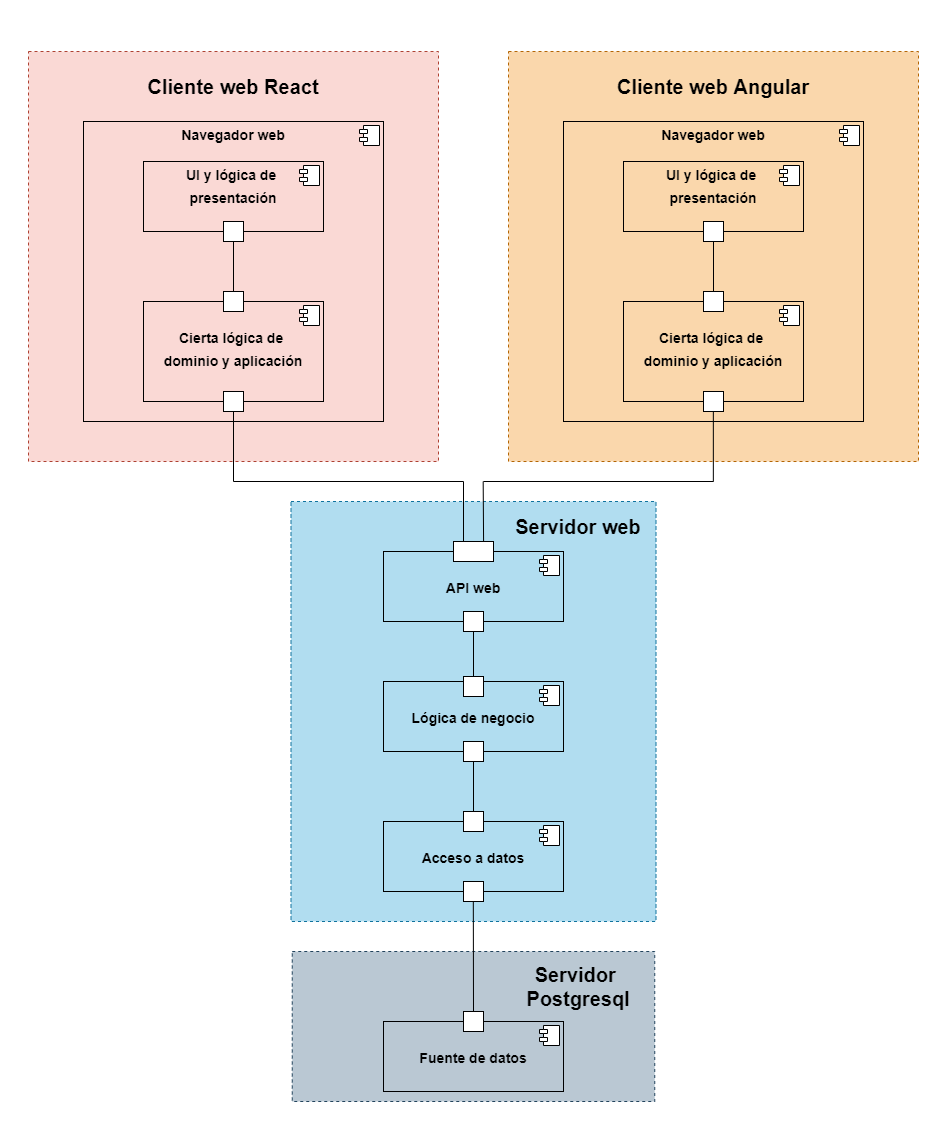
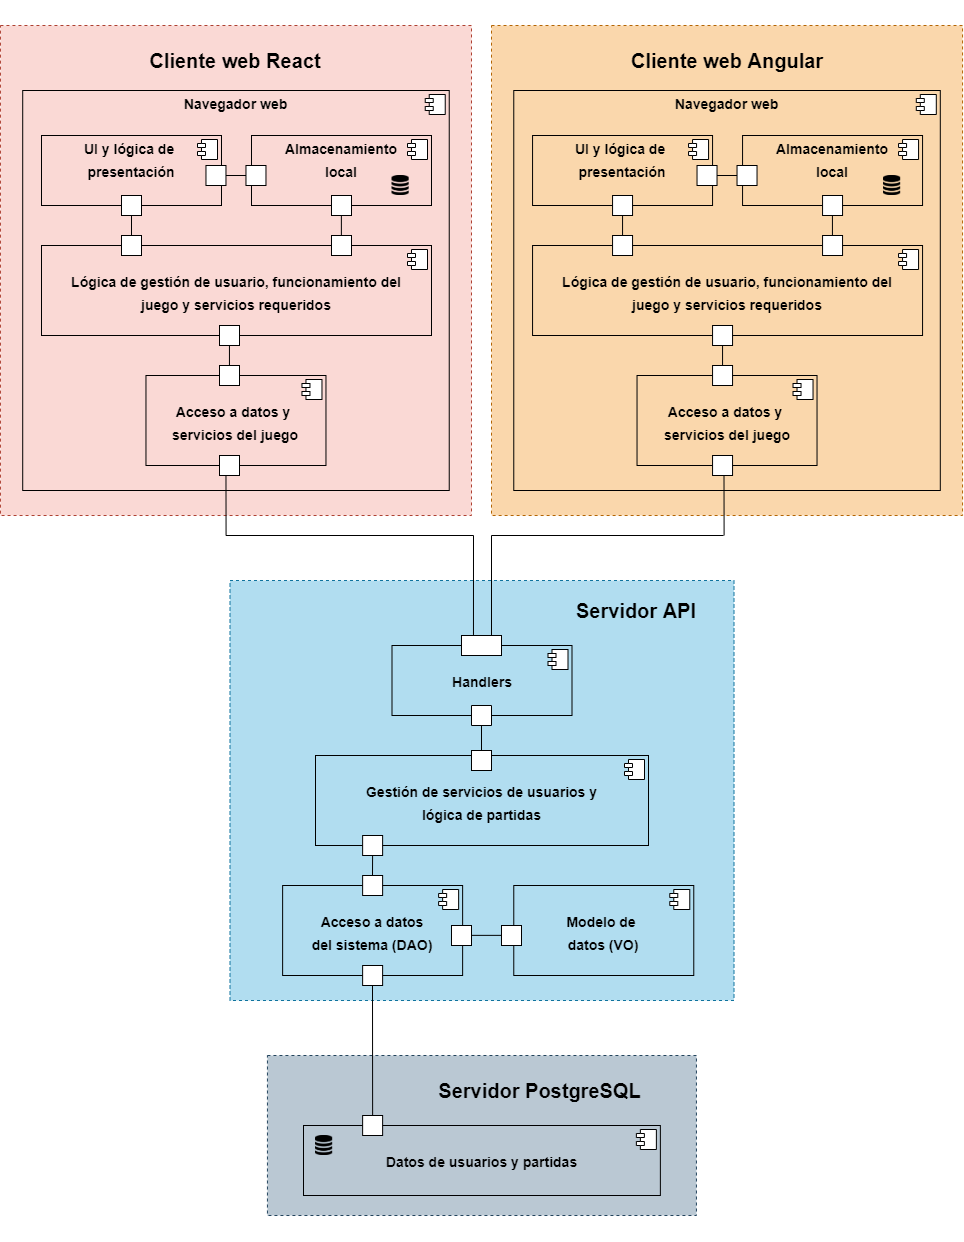
Parte añadida y arreglos

Changed region(s): [[0.0, 0.0, 1.0, 0.9903], [0.1246, 0.3095, 0.1557, 0.3404]]

diff --git a/plan_gestion_analisis_diseño_memoria_v1/main.tex b/plan_gestion_analisis_diseño_memoria_v1/main.tex
@@ -153,23 +153,23 @@ A lo largo del documento se va a presentar un proyecto que se ha denominado\text
 %Algunos de los objetivos fundamentales del sistema son: 
 
 %que constan de un \textit{email} y contraseña,%
-Así mismo, el juego permitirá a los usuarios registrarse e iniciar sesión con sus credenciales, y el uso de una cuenta de usuario será necesario para jugar partidas. Gracias a que se almacenan cuentas de usuario, el sistema contará con una clasificación global de los mejores jugadores y de sus respectivas puntuaciones de las partidas jugadas. Por otro lado, el juego proporcionará funcionalidades adicionales que permitirán disfrutar de una experiencia social, fomentando la competición y una mayor participación en futuras partidas. %Cada usuario podrá gestionar una lista de amigos.\\
+Así mismo, el juego permitirá a los usuarios registrarse e iniciar sesión con sus credenciales, y el uso de una cuenta de usuario será necesario para jugar partidas. Gracias a que se almacenan cuentas de usuario, el sistema contará con una clasificación global de los mejores jugadores y de sus respectivas puntuaciones de las partidas jugadas. Por otro lado, el juego proporcionará funcionalidades adicionales que permitirán disfrutar de una experiencia social, fomentando la competición y una mayor participación en futuras partidas.\\ %Cada usuario podrá gestionar una lista de amigos.\\
 
-Adicionalmente, los usuarios podrán personalizar elementos del juego en función de sus preferencias, como las fichas, su foto de perfil, o los dados usados durante las partidas, mediante puntos canjeables en la tienda del juego, que el sistema recompensará por haber jugado o ganado partidas.
+Adicionalmente, los usuarios podrán personalizar elementos del juego en función de sus preferencias, como las fichas, su foto de perfil, o los dados usados durante las partidas, mediante puntos canjeables en la tienda del juego, que el sistema recompensará por haber jugado o ganado partidas. \\
 
 Por otro lado, el juego permitirá crear partidas públicas y privadas, con contraseña, de 2 a 6 jugadores. Esto permitirá crear partidas entre grupos de amigos, o unirse a partidas públicas y conocer nuevos usuarios.\\
 
 %Las partidas se desarrollarán de forma asíncrona, permitiendo a los usuarios responder en cualquier momento. Si el usuario se encuentra conectado, podrá ver una notificación en la pantalla. En el caso contrario, se enviará un correo al mismo notificando que puede realizar la jugada. Habrá un mecanismo de expulsión de jugadores que no respondan o realicen jugadas en un tiempo determinado. \\
 
-A lo largo de la realización del proyecto, se realizarán entregas parciales del trabajo llevado a cabo, en reuniones propuestas en unos plazos establecidos:
+A lo largo de la realización del proyecto se realizarán entregas parciales del trabajo llevado a cabo, en reuniones propuestas en unos plazos establecidos:
 
-En primer lugar, se realizará una reunión para la evaluación parcial del sistema, con el objetivo de refinar requisitos y mostrar el progreso del desarrollo. Esto se realizará en la semana del 4 al 8 de Abril.
+En primer lugar, se realizará una reunión para la evaluación parcial del sistema, con el objetivo de refinar requisitos y mostrar el progreso del desarrollo. Esto se realizará en la semana del 4 al 8 de Abril. \\
 
-En segundo lugar, se realizará reunión para la evaluación de todas las funcionalidades del juego, con el sistema implementado en una versión final, con el objetivo de realizar ajustes finales. Esto se realizará en la semana del 16 al 20 de Mayo.
+En segundo lugar, se realizará reunión para la evaluación de todas las funcionalidades del juego, con el sistema implementado en una versión final, con el objetivo de realizar ajustes finales. Esto se realizará en la semana del 16 al 20 de Mayo. \\
 
 El sistema final se entregará no más tarde del 1 de junio, con los cambios propuestos durante las reuniones intermedias. \\
 
-A continuación se detallará la organización del proyecto, los equipos creados y sus objetivos, las tecnologías utilizadas,  y el calendario del proyecto con la división de las tareas asignadas a cada uno.
+A continuación, se detallará la organización del proyecto, los equipos creados y sus objetivos, las tecnologías utilizadas,  y el calendario del proyecto con la división de las tareas asignadas a cada uno.
 Además, realizaremos un análisis y diseño del sistema, y una revisión del transcurso del proyecto, desde el inicio hasta el cierre del mismo. \newpage
 
 \section{Organización del proyecto}
@@ -186,7 +186,7 @@ Aunque cada uno tenga un bloque asignado, en todo momento se ayudará a integran
 
 El equipo decidió nombrar como director a Francisco Crespo, será el portavoz y el encargado de tomar las decisiones más controvertidas, así como de realizar las entregas necesarias del trabajo.\newline
 
-El responsable del control de configuraciones, construcción del software y aseguramiento de la calidad del producto será Samuel García.
+El responsable del control de configuraciones, construcción del software y aseguramiento de la calidad del producto será Samuel García.\\
 
 La responsable de la división del trabajo, coordinación y la comunicación entre los miembros del proyecto será Laura González.
 
@@ -363,7 +363,7 @@ La coordinación y seguimiento de objetivos del proyecto se va a seguir mediante
     \begin{figure}[!p]
     \centering
     
-    \includegraphics[width=1.7\textwidth]{diagramas/gantt.PNG}
+    \includegraphics[width=1.7\textwidth]{diagramas/gantt.png}
     \caption{Diagrama de Gantt.}
     \label{fig:gantt}
 \end{figure}
@@ -387,7 +387,7 @@ Las métricas de rendimiento del equipo irán marcadas por el estado por cada un
 El calendario interno para el \textit{frontend} va a ser el mismo para ambas implementaciones. La tabla \ref{table:frontend} muestra las tareas a realizar por este equipo. \newline
 
 \subsubsection{Calendario de seguimiento para el backend}
- La tabla \ref{table:backend} muestra las tareas de este equipo a realizar. \newline
+ La tabla \ref{table:backend} muestra las tareas a realizar por el equipo. \newline
 
 % Please add the following required packages to your document preamble:
 % \usepackage{multirow}
@@ -446,9 +446,8 @@ El calendario interno para el \textit{frontend} va a ser el mismo para ambas imp
 
 \newpage
 
-
-
 \begin{landscape}
+\pagestyle{empty}
 \begin{table}[hbt!]
 \small
 \centering
@@ -618,11 +617,18 @@ Los requisitos funcionales de nuestra aplicación se pueden encontrar detallados
 
 El diseño y planificación de los elementos y lógica de un sistema es fundamental para su desarrollo. En consecuencia, hemos desarrollado los correspondientes diagramas arquitecturales que reflejan los componentes de la aplicación, así como la interacción entre ellos. \newline
 
-En primer lugar, se ha modelado el \textbf{diagrama de paquetes}, observable en la Figura 3, cuyo contenido refleja la organización de los distintos módulos del sistema, así como las dependencias entre ellos. \\
+En primer lugar, se ha modelado el \textbf{diagrama de paquetes}, observable en la Figura \ref{ref:paquetes}, cuyo contenido refleja la organización de los distintos módulos del sistema, así como las dependencias entre ellos. \\ \\
 
-En siguiente lugar, se ha modelado el \textbf{diagrama de componentes}, apreciable en la Figura 4, en el cual se puede apreciar los dos componentes cliente, uno para cada tecnología, los cuales implementan la lógica de presentación y contienen parte de lógica interna de la aplicación, y se comunican con el servidor mediante la misma interfaz (\textit{API}). En siguiente lugar, se encuentra el servidor \textit{web} para la \textit{API}, el cual ofrece una interfaz común a los clientes e implementa la lógica de negocio y el acceso a los datos del sistema. Por último, se encuentra el gestor de base de datos, el cual aporta la persistencia necesaria al sistema. Además, como \textbf{protocolo de comunicación} entre los nodos de la red, se utilizará HTTP. \\
+\begin{figure}[!h]
+    \centering
+    \includegraphics[width=0.9\linewidth]{diagramas/DP.png}
+    \caption{Diagrama de paquetes.}
+    \label{ref:paquetes}
+\end{figure}
 
-En siguiente lugar, se ha modelado el \textbf{diagrama de componentes}, apreciable en la Figura \ref{ref:componentes}, en el cual se puede apreciar los dos componentes cliente, uno para cada tecnología. Estos implementan la lógica de presentación y contienen parte de lógica interna de la aplicación, y se comunican con el servidor mediante la misma interfaz (\textit{API}). En siguiente lugar, se encuentra el servidor \textit{web} para la \textit{API}, el cual ofrece una interfaz común a los clientes e implementa la lógica de negocio y el acceso a los datos del sistema. Por último, se encuentra el gestor de base de datos, el cual aporta la persistencia necesaria al sistema. Además, como \textbf{protocolo de comunicación} entre los nodos de la red, se utilizará \textit{HTTP}. \\
+\newpage
+
+En siguiente lugar, se ha modelado el \textbf{diagrama de componentes}, apreciable en la Figura \ref{ref:componentes}, en el cual se puede apreciar los dos componentes cliente, uno para cada tecnología. Estos implementan la lógica de presentación y contienen parte de lógica interna de la aplicación, y se comunican con el servidor mediante la misma interfaz (\textit{API}). En siguiente lugar, se encuentra el servidor \textit{web} para la \textit{API}, el cual ofrece una interfaz común a los clientes e implementa la lógica de negocio y el acceso a los datos del sistema. Por último, se encuentra el gestor de base de datos, el cual aporta la persistencia necesaria al sistema. Además, como \textbf{protocolo de comunicación} entre los nodos de la red, se utilizará \textit{HTTP}. \\ \\
 
 \begin{figure}[!h]
     \centering
@@ -631,9 +637,9 @@ En siguiente lugar, se ha modelado el \textbf{diagrama de componentes}, apreciab
     \label{ref:componentes}
 \end{figure}
 
+\newpage
 
-
-Por otro lado, en la Figura 5 se ilustra el \textbf{diagrama de despliegue}, donde se puede apreciar la distribución de los distintos nodos que componen el sistema. En consecuencia, se ha representado el servidor web de la \textit{API}, el cual contiene un entorno de ejecución para el contenedor de \textit{Docker}, que ejecuta el código del servidor, y otro entorno con el contenedor para el SGBD \textit{PostgreSQL}. Por otro lado, se encuentran los servidores de React y Angular, cada uno con su entorno de ejecución con un contenedor de \textit{Docker}, que proporcionan el cliente web correspondiente. Por último, se encuentra la máquina del usuario, la cual contiene el entorno de ejecución (navegador web), junto con los artefactos necesarios para ejecutar el cliente correspondiente. \\
+Por otro lado, en la Figura \ref{ref:despliegue} se ilustra el \textbf{diagrama de despliegue}, donde se puede apreciar la distribución de los distintos nodos que componen el sistema. En consecuencia, se ha representado el servidor web de la \textit{API}, contenido en un entorno de ejecución para correspondiente a un contenedor de \textit{Docker}, que ejecuta el código del servidor, y otro entorno con el contenedor para el SGBD \textit{PostgreSQL}. Por otro lado, se encuentran los servidores de React y Angular, cada uno con su entorno de ejecución con un contenedor de \textit{Docker}, que proporcionan el cliente web correspondiente. Por último, se encuentra la máquina del usuario, la cual contiene el entorno de ejecución (navegador web), junto con los artefactos necesarios para ejecutar el cliente correspondiente. \\
 
 \begin{figure}[!h]
     \centering
@@ -645,6 +651,8 @@ Por otro lado, en la Figura 5 se ilustra el \textbf{diagrama de despliegue}, don
 \FloatBarrier
 
 Dadas las características del tipo de aplicación \textit{web}, se va a desarrollar una \textbf{arquitectura cliente-servidor en 3 niveles} como modelo de diseño, en la que los clientes lanzarán peticiones al servidor, este las gestionará y mantendrá el estado del sistema y su persistencia, y devolverá la respuesta correspondiente, que será procesada por la lógica desarrollada en el cliente. \\
+
+\newpage
 
 En la Figura \ref{ref:relacional} aparece el modelo relacional utilizado para la base de datos de la aplicación. Este constará de 5 tablas:
 \begin{itemize}
@@ -662,7 +670,7 @@ En la Figura \ref{ref:relacional} aparece el modelo relacional utilizado para la
     \label{ref:relacional}
 \end{figure}
 
-Desde el punto de vista de las interfaces del sistema, se ha realizado un diseño completo de la API a consumir por ambos \textit{frontend}. El diagrama de la API, junto a la descripción de los diferentes aspectos implementados, está disponible en el repositorio de documentación\footnote{\href{https://github.com/UNIZAR-30226-2022-01/proyecto_software_documentacion/documentacion_API.md}{\color{blue}{Documentación de la API.}}}.
+Desde el punto de vista de las interfaces del sistema, se ha realizado un diseño completo de la API a consumir por ambos \textit{frontend}. El diagrama de la API, junto a la descripción de los diferentes aspectos implementados, está disponible en el repositorio de documentación\footnote{\href{https://github.com/UNIZAR-30226-2022-01/proyecto_software_documentacion/documentacion_API.md}{\color{blue}{Documentación de la API.}}}. \\
 
 Adicionalmente, todas las funciones públicas del \textit{backend} se han documentado y se encuentran disponibles en la página oficial de documentación de paquetes de Go \footnote{\href{https://pkg.go.dev/github.com/UNIZAR-30226-2022-01/proyecto_software_backend}{\color{blue}{Documentación pública del \textit{backend}.}}}. De esta forma, se permite a ambos equipos de \textit{frontend} acceder a la documentación detallada de cada \textit{endpoint} de la API, que cuenta con ejemplos de respuestas y datos devueltos\footnote{\href{https://pkg.go.dev/github.com/UNIZAR-30226-2022-01/proyecto_software_backend/handlers}{\color{blue}{Documentación de cada \textit{endpoint} del \textit{backend}.}}}.
 
@@ -704,14 +712,17 @@ A continuación se va a describir el inicio y desarrollo del proyecto, desde el 
 
 \subsection{Inicio del proyecto}
 %Apartado react
-En relación al equipo del frontend de \textbf{React}, hemos seguido de forma correcta el plan establecido. Hemos seguido los tutoriales correspondientes y, posteriormente, realizamos un proyecto de prueba de cara a probar y poner en práctica las competencias adquiridas. También hemos investigado y probado diversos paquetes o librerías adicionales de \textit{React}, y aprendido a realizar las conexiones con la API y gestionar cookies. \\
-Cabe resaltar que \textbf{se han cumplido los objetivos} deseados de acuerdo a la planificación inicial. \\
+En relación al equipo del frontend de \textbf{React}, hemos seguido de forma correcta el plan establecido. Hemos seguido los tutoriales correspondientes y, posteriormente, realizamos un proyecto de prueba de cara a probar y poner en práctica las competencias adquiridas. También hemos investigado y probado diversos paquetes o librerías adicionales de \textit{React}, y aprendido a realizar las conexiones con la API y gestionar cookies. Cabe resaltar que \textbf{se han cumplido los objetivos} deseados de acuerdo a la planificación inicial. 
 
 % Apartado backend
 Con lo que respecta al equipo de \texit{backend}, la formación inicial necesaria no fue tan pesada como en el caso del \texit{frontend}, ya que ambos componentes del equipo tenían experiencia con las tecnologías utilizadas. Aún así ambos consultaron tutoriales y documentación de \textbf{React} y \textbf{Angular} para poder ayudar en el desarrollo del \textit{frontend}, además de los tutoriales sobre diseño de \textit{API} y uso de \LaTeX.
 
 \subsection{Ejecución y control del proyecto}
 \subsubsection{Frontend Angular}
+
+El tiempo invertido para la realización de las tareas propuestas no se ha ajustado al plan inicial, y es por ello que no han podido alcanzar los objetivos propuestos en el calendario original. La implementación de algunos aspectos del \textit{frontend} han sido mas costosos de lo esperado, principalmente por la poca del experiencia del equipo al trabajar con el \textit{framework}. La gestión de cookies, y el diseño de una primera versión del mapa fueron las tareas más complejas, y dispararon las horas de trabajo invertidas, escapando del plan inicial.\\
+
+Ambos equipos encargados del \textit{frontend} han aprendido que es muy difícil repartir actividades trabajando en \textit{frameworks} distintos, ya que tratamos de dividir el diseño del mapa entre los 4 integrantes de \textit{frontend}, y a la hora de integrar las tareas realizadas por el equipo de \textit{React} en la implementación de \textit{Angular}, ha sido necesario adaptar el código al \textit{framework}, ya que difieren en multitud de aspectos. 
 
 \subsubsection{Frontend React}
 
@@ -756,9 +767,9 @@ El proceso de ejecución y control del proyecto para el equipo de \textit{backen
 
 %% Repartición de tareas
 
-En términos de repartición de trabajo, el comienzo del proceso de desarrollo ha consistido en programación en pareja de los aspectos fundamentales del sistema, como la definición del modelo de datos, o la de módulos base, funciones críticas y estructuras a utilizar en el servidor.
+En términos de repartición de trabajo, el comienzo del proceso de desarrollo ha consistido en programación en pareja de los aspectos fundamentales del sistema, como la definición del modelo de datos, o la de módulos base, funciones críticas y estructuras a utilizar en el servidor. \\
 
-Una vez realizado esto, se han repartido tareas individuales equitativamente y puesto en común en reuniones más breves todas aquellas funcionalidades comunes a todas las tareas a realizar.
+Una vez realizado esto, se han repartido tareas individuales equitativamente y puesto en común en reuniones más breves todas aquellas funcionalidades comunes a todas las tareas a realizar. \\
 
 %% Tecnologías / librerías elegidas
 %% Seguimiento de nombrado de ficheros y formato, etc
@@ -791,7 +802,9 @@ Respecto al seguimiento de los procedimientos establecidos, se han seguido los s
 
 Por otro lado, se ha conseguido seguir el calendario de tareas establecido en todo momento, llegando a implementar una versión inicial del juego, consistente en el inicio y la gestión de las partidas y la primera fase de un turno, así como todos los aspectos fundamentales del diseño del sistema (el modelo de datos, autenticación de usuarios o una versión preliminar de toda la \textit{API}, por ejemplo) y funcionalidades adicionales como los aspectos sociales del juego.\\
 
-La única divergencia respecto a la planificación inicial ha sido el aplazamiento de la implementación de la \textit{API} de notificaciones una semana, aún dentro del límite, debido a que se ha detectado que dependía de funcionalidades de la lógica de juego.
+La única divergencia respecto a la planificación inicial ha sido el aplazamiento de la implementación de la \textit{API} de notificaciones una semana, aún dentro del límite, debido a que se ha detectado que dependía de funcionalidades de la lógica de juego. \\
+
+\newpage
 
 Por último, durante el desarrollo del sistema se han detectado los siguientes problemas respecto al control de versiones, construcción y despliegue del software:
 \begin{itemize}
@@ -828,12 +841,12 @@ Cabe destacar que las pequeñas divergencias entre las estimaciones iniciales y 
 El tiempo invertido para la realización de las tareas propuestas no se ha ajustado al plan inicial, y es por ello que no han podido alcanzar los objetivos propuestos en el calendario original. La implementación de algunos aspectos del \textit{frontend} han sido mas costosos de lo esperado, principalmente por la poca del experiencia del equipo al trabajar con el \textit{framework}. La gestión de cookies, y el diseño de una primera versión del mapa fueron las tareas más complejas, y dispararon las horas de trabajo invertidas, escapando del plan inicial.
 \\
 
-Ambos equipos encargados del \textit{frontend} han aprendido que es muy difícil repartir actividades trabajando en \textit{frameworks} distintos, ya que tratamos de dividir el diseño del mapa entre los 4 integrantes de \textit{frontend}, y a la hora de integrar las tareas realizadas por el equipo de \textit{React} en la implementación de \textit{Angular}, ha sido necesario adaptar el código al \textit{framework}, ya que difieren en multitud de aspectos. \\
+Ambos equipos encargados del \textit{frontend} han aprendido que es difícil repartir actividades trabajando en \textit{frameworks} distintos, ya que tratamos de dividir el diseño del mapa entre los 4 integrantes de \textit{frontend}, y a la hora de integrar las tareas realizadas por el equipo de \textit{React} en la implementación de \textit{Angular}, ha sido necesario adaptar el código al \textit{framework}. \\
 \subsubsection{Valoraciones comunes entre todos los equipos}
 
-La magnitud del proyecto ha fomentado a realizar \textit{commits} más concisos y frecuentes.
+La magnitud del proyecto ha fomentado a realizar \textit{commits} más concisos y frecuentes. \\
 
-Durante el desarrollo del \textit{backend}, hemos podido aprender sobre el \textit{CORS} y las peticiones de datos de origen cruzado, al servir los clientes web y la API desde dominios diferentes. Así mismo, hemos ganado experiencia en el despliegue y depuración de contenedores con \textit{Docker}.
+Durante el desarrollo del \textit{backend}, hemos podido aprender sobre el \textit{CORS} y las peticiones de datos de origen cruzado, al servir los clientes web y la API desde dominios diferentes. Así mismo, hemos ganado experiencia en el despliegue y depuración de contenedores con \textit{Docker}. \\
 
 Así mismo, durante el desarrollo de los \textit{frontend}, cabe destacar el avance y aprendizaje obtenido en el desarrollo y creación de interfaces, \textit{UX design}.\\
 
@@ -847,7 +860,7 @@ Los esfuerzos realizados por los integrantes del equipo han sido los siguientes:
     
     \item \textbf{Fran} desarrolló junto con el resto del grupo de \textit{frontend} el diseño del mapa de juego. Además, la implementación de diversas pantallas como \textit{Registro Usuario, Inicio Sesión y Crear Partida}, entre otras. También, realizó dinámica adicional del mapa como ciertos botones, un mapa informativo o pantallas de avisos. En conjunto dedicó un estimado de 37 horas.
     
-    \item \textbf{Emilio Estevan} dedicó un total de 41 horas a las tareas asignadas, entre las que destacan la puesta en marcha inicial del cliente, conexiones con la API y su gestión de errores, mantenimiento de cookies, implementación y diseño de pantallas y elementos gráficos, y redacción, maquetación y diseño de apartados de la memoria.
+    \item \textbf{Emilio} dedicó un total de 41 horas a las tareas asignadas, entre las que destacan la puesta en marcha inicial del cliente, conexiones con la API y su gestión de errores, mantenimiento de cookies, implementación y diseño de pantallas y elementos gráficos, y redacción, maquetación y diseño de apartados de la memoria.
     
     \item \textbf{Jorge} diseñó de las pantallas de inicio de sesión y registro de usuario. También realizó el diseño del mapa, tratando de aprender cuestiones básicas sobre \textit{svg}, transiciones en angular, y otros elementos de diseño que proporciona la herramienta. Además, realizó la pantalla de búsqueda de partida, en la cual fue necesario aprender nuevos aspectos de diseño y cuestiones básicas sobre conexiones a la API. En total, invirtió 32 horas.
 
